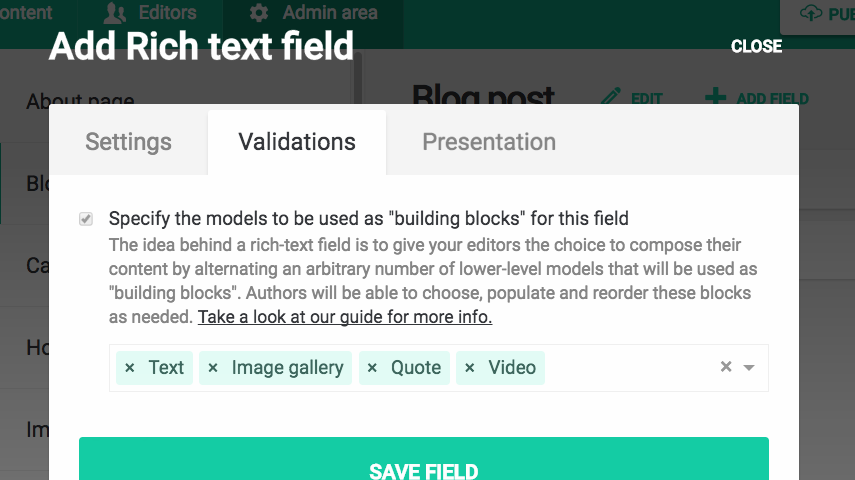
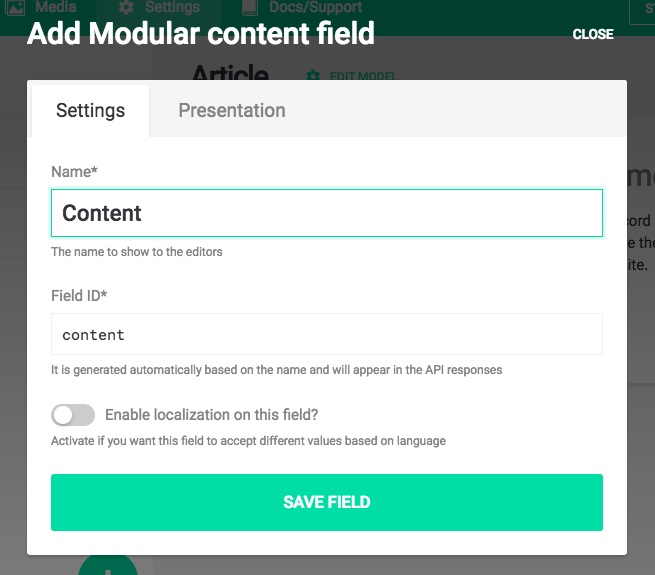
Modular blocks v2

diff --git a/src/schema/modular-content.md b/src/schema/modular-content.md
@@ -13,9 +13,9 @@ In DatoCMS you can achieve structured, rich-content editing using a specific typ
 
 The idea is to give your authors the choice to compose their content by alternating certain blocks (ie. text, images, videos, etc.), which are nothing more but "low-level" models. Authors, to compose a structured content, will be able to add and reorder these blocks as they prefer:
 
-<div class="small">![foo](/images/modular-content/4.png)</div>
+<div class="small">![foo](/images/modular-content/0.png)</div>
 
-This gives authors a lot of freedom to organise their content, much like Medium editor does, while keeping the content clean and structured:
+This gives authors a lot of freedom to organise their content, much like Medium editor does, while keeping the content clean and structured.
 
 ---
 
@@ -28,20 +28,29 @@ Suppose we have an *Article* model, and we want to add a modular content field t
 * Videos
 * and Images
 
-#### Create the "building blocks"
-
-To achieve this result, first you need to create a different model for each one of these blocks. The *Quote* model, for example, will be made of two fields: one containing the actual quote, the other containing the author.
+To achieve this result, first we create the Article model, and add a Modular content field to it:
 
 <div class="smaller">![foo](/images/modular-content/2.png)</div>
 
-#### Add the Modular content field to your model
+<div class="two">
+  <div>![foo](/images/modular-content/1.png)</div>
+  <div>![foo](/images/modular-content/3.png)</div>
+</div>
 
-Now that the basic blocks are ready, we can finally select the Article model, and add a Modular content field (you'll find it under the Text group):
+Under the Modular content field we just created, we can now add our blocks. There's a *Add new block* button for that, so we'll use it to create the Quote block:
 
-Let's name it "Content", and in the "Validations" tab, make sure to select the low-level models you previously created:
+<div class="two">
+  <div>![foo](/images/modular-content/4.png)</div>
+  <div>![foo](/images/modular-content/5.png)</div>
+</div>
 
-<div class="small">![foo](/images/modular-content/3.png)</div>
+Blocks are just a composition of fields, just like ordinary models. In our case, we want quotes to be made of two fields: one containing the actual quote, the other containing the author.
 
-#### Hiding "building-block" models from the navigation bar
+You can click on the *Settings* button on the Quote block, to edit its fields:
 
-If you create a model only to be used as building-blocks inside a Modular content field, it is perfectly safe and suggested to remove it from the navigation bar, so that they can only be accessed and created within the modular-content editor.
+<div class="smaller">![foo](/images/modular-content/6.png)</div>
+
+<div class="smaller">![foo](/images/modular-content/7.png)</div>
+
+<div class="smaller">![foo](/images/modular-content/8.png)</div>
+

diff --git a/src/hugo/modular-content.md b/src/hugo/modular-content.md
@@ -9,7 +9,7 @@ position: 7
 **Note** This guide assumes you have a basic knowledge of how *Modular content* fields work in DatoCMS. If this is not the case, please read [this introduction](/schema/modular-content.html) first.
 </div>
 
-Suppose a `blog_post` model has a modular content field called `content`, which in turn accepts the following models as [building-blocks](/schema/modular-content.html):
+Suppose a `blog_post` model has a modular content field called `content`, which in turn accepts the following [building-blocks](/schema/modular-content.html):
 
 * Model `blog_post_text_block`: made of a `text` field (*multi-paragraph text*);
 * Model `blog_post_quote_block`: made of a `quote` field (*multi-paragraph text*) and `author` field (*single-line string*);
